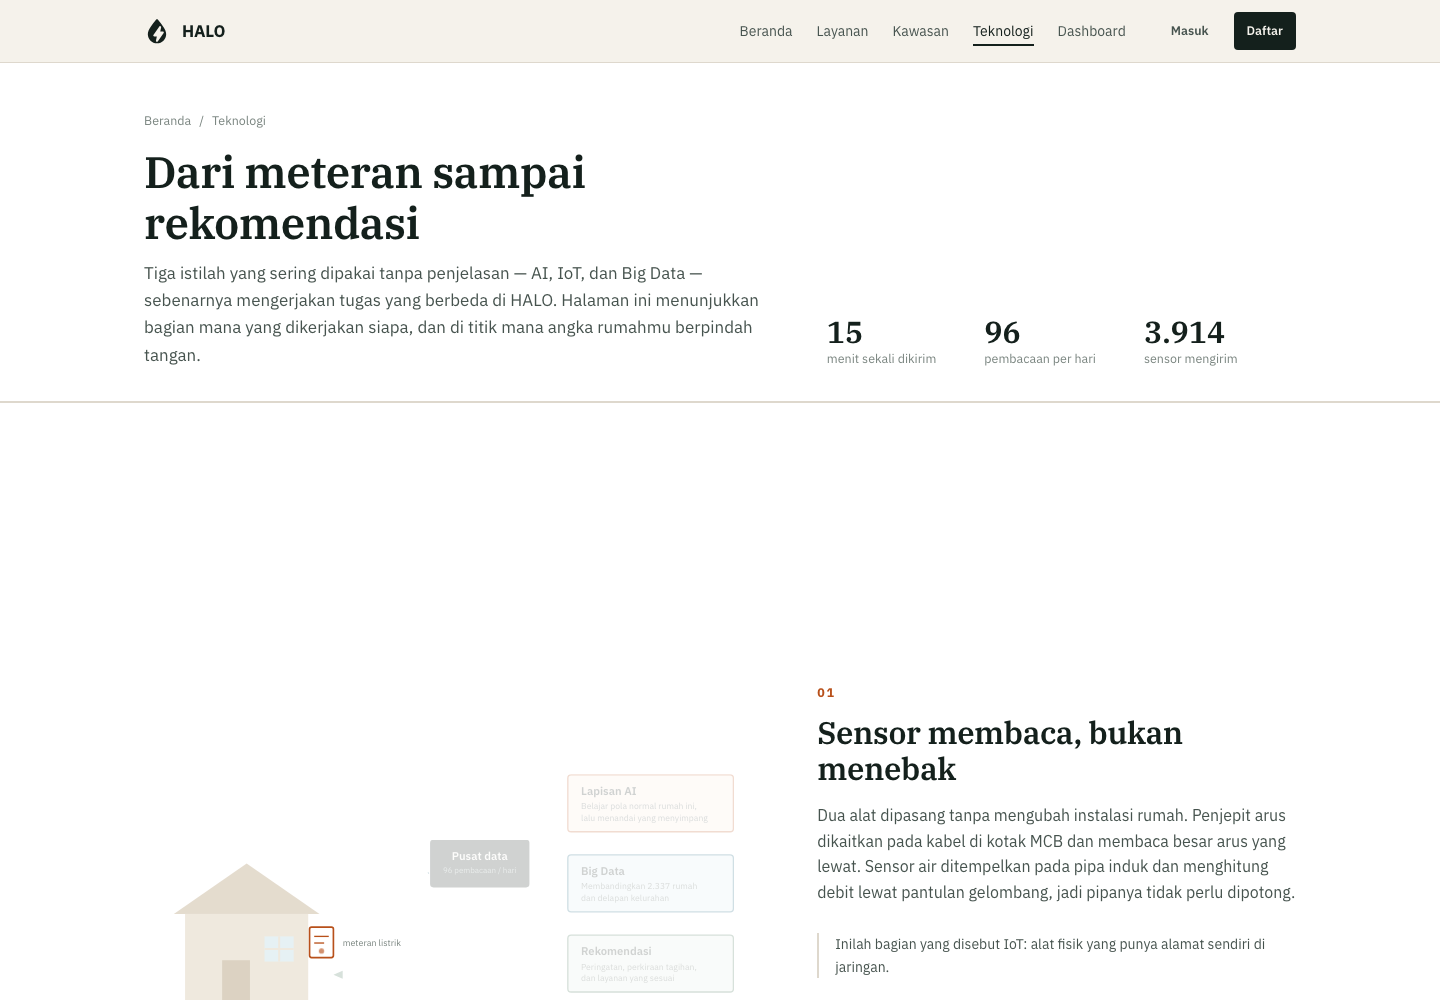
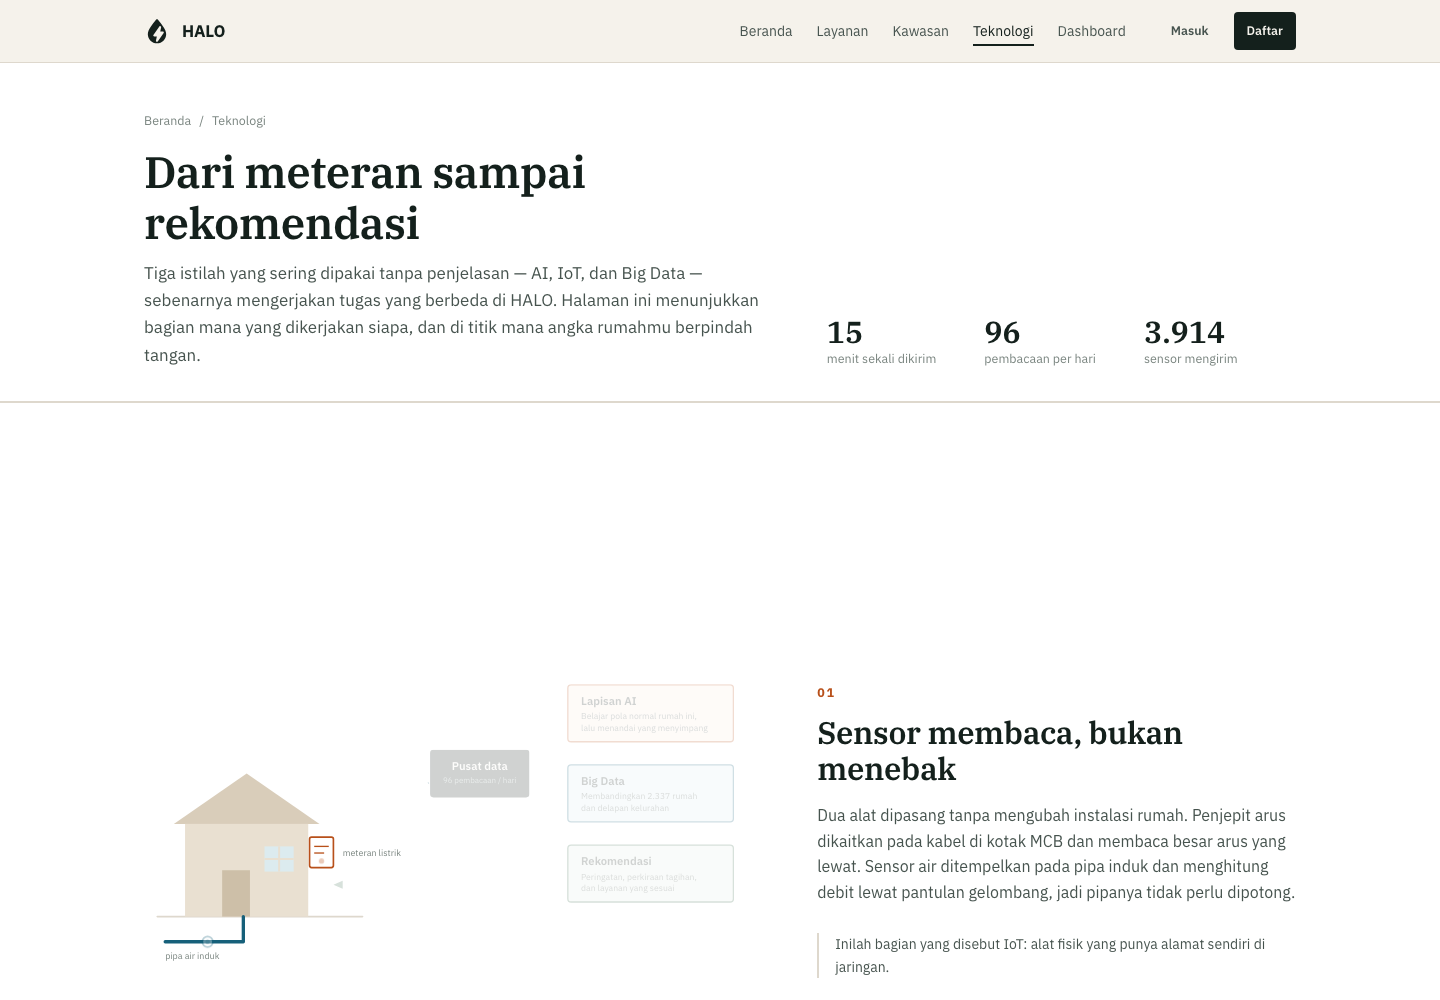
Perbaiki tampilan tablet, diagram teknologi, dan bahasa tombol galeri
- Cegah gulir mendatar: animasi muncul dari samping diganti dari bawah
  di layar sempit, dan petak grid diberi min-width nol supaya tabel lebar
  tidak lagi memaksa kolom melebar
- Bilah navigasi pindah ke tombol menu mulai 900px, sebelumnya 760px
  sehingga masih sesak di tablet
- Diagram halaman Teknologi kini terpaku sampai langkah terakhir selesai
  dibaca, dan langkah aktif dipilih dari jarak ke tengah layar sehingga
  tidak ada lagi zona mati
- Label tombol galeri Fancybox diterjemahkan ke bahasa Indonesia
- Peta panas bisa digulir mendatar di layar sempit

diff --git a/WD_MAHASISWA_Gianne Angely Puspa Pilatus_ITCC 2026/Gianne Angely Puspa Pilatus_Website/css/style.css b/WD_MAHASISWA_Gianne Angely Puspa Pilatus_ITCC 2026/Gianne Angely Puspa Pilatus_Website/css/style.css
@@ -71,7 +71,14 @@
 /* ---------- Penyetelan ulang ---------- */
 *, *::before, *::after { box-sizing: border-box; }
 * { margin: 0; }
-html { -webkit-text-size-adjust: 100%; scroll-behavior: smooth; }
+html {
+  -webkit-text-size-adjust: 100%;
+  scroll-behavior: smooth;
+  /* Pagar terakhir: gerakan muncul yang menggeser elemen ke samping
+     tidak boleh sampai memunculkan gulir mendatar. Memakai clip, bukan
+     hidden, supaya bilah navigasi yang sticky tetap menempel. */
+  overflow-x: clip;
+}
 body {
   font-family: 'Plex Sans', -apple-system, BlinkMacSystemFont, 'Segoe UI', Roboto, sans-serif;
   font-size: var(--fs-body);
@@ -250,10 +257,10 @@ h3 { font-size: var(--fs-h3); font-family: 'Plex Sans', sans-serif; font-weight:
 .tanpa-js [data-muncul], .diam [data-muncul] { opacity: 1 !important; transform: none !important; clip-path: none !important; }
 
 /* ---------- Responsif ---------- */
+/* Di bawah 900px bilah atas sudah terlalu sesak untuk memuat lima tautan
+   sekaligus keterangan akun, jadi menunya dipindah ke tombol. */
 @media (max-width: 900px) {
   .kaki-kisi { grid-template-columns: 1fr 1fr; gap: var(--s5); }
-}
-@media (max-width: 760px) {
   .bilah-tombol { display: block; }
   .menu {
     position: fixed; inset: 62px 0 auto 0; background: var(--surface);
@@ -264,6 +271,8 @@ h3 { font-size: var(--fs-h3); font-family: 'Plex Sans', sans-serif; font-weight:
   .menu a { padding-block: var(--s3); border-bottom: 1px solid var(--line-2); }
   .menu a::after { display: none; }
   .bilah-aksi { margin-left: auto; }
+}
+@media (max-width: 760px) {
   .bagian { padding-block: var(--s7); }
   .wrap { padding-inline: var(--s4); }
 }
@@ -304,6 +313,12 @@ h3 { font-size: var(--fs-h3); font-family: 'Plex Sans', sans-serif; font-weight:
   transition: opacity .62s var(--ease), transform .62s var(--ease), clip-path .72s var(--ease);
 }
 [data-urut] > * { opacity: 0; transform: translateY(16px); }
+
+/* Di layar sempit isinya sudah selebar penuh, jadi geseran ke samping
+   diganti geseran ke atas — kalau tidak, elemennya keluar tepi layar. */
+@media (max-width: 1040px) {
+  [data-muncul="kiri"], [data-muncul="kanan"] { transform: translateY(20px); }
+}
 [data-urut].tampil > * {
   opacity: 1; transform: none;
   transition: opacity .5s var(--ease), transform .5s var(--ease);

diff --git a/WD_MAHASISWA_Gianne Angely Puspa Pilatus_ITCC 2026/Gianne Angely Puspa Pilatus_Website/css/teknologi.css b/WD_MAHASISWA_Gianne Angely Puspa Pilatus_ITCC 2026/Gianne Angely Puspa Pilatus_Website/css/teknologi.css
@@ -8,13 +8,18 @@
 
 /* ---------- Bercerita sambil digulir ---------- */
 .cerita { background: var(--surface); border-block: 1px solid var(--line); }
-.cerita-kisi { display: grid; grid-template-columns: minmax(0, 1.12fr) minmax(0, .88fr); gap: var(--s8); align-items: start; }
+.cerita-kisi { display: grid; grid-template-columns: minmax(0, 1.12fr) minmax(0, .88fr); gap: var(--s8); }
 
-/* Panggung dipaku setinggi layar dan isinya ditengahkan, supaya
-   diagram tetap sejajar mata selagi daftar langkah bergulir melewatinya */
-.cerita-panggung {
+/* Kolom kiri dibiarkan setinggi kolom kanan supaya elemen yang
+   menempel punya ruang jelajah sepanjang seluruh daftar langkah.
+   Yang dipaku adalah pembungkus di dalamnya, bukan kolomnya. */
+.cerita-panggung { height: 100%; }
+/* Tingginya sedikit di bawah satu layar, dan daftar langkah diberi
+   ruang sisa di bawahnya. Keduanya membuat diagram tetap terpaku
+   sampai langkah terakhir benar-benar selesai dibaca. */
+.cerita-lekat {
   position: sticky; top: 0;
-  height: 100vh; display: grid; align-content: center;
+  height: 82vh; display: grid; align-content: center;
   padding-block: var(--s6);
 }
 .diagram { width: 100%; height: auto; }
@@ -39,7 +44,7 @@
 .nadi { animation: denyutSensor 2.2s ease-in-out infinite; }
 @keyframes denyutSensor { 0%, 100% { opacity: 1; } 50% { opacity: .3; } }
 
-.cerita-langkah { padding-block: var(--s8); }
+.cerita-langkah { padding-block: var(--s8) 40vh; }
 .cerita-langkah li {
   min-height: 74vh; display: flex; flex-direction: column; justify-content: center;
   opacity: .3; transition: opacity .5s var(--ease);
@@ -63,7 +68,8 @@
 
 @media (max-width: 1000px) {
   .cerita-kisi { grid-template-columns: 1fr; gap: var(--s4); }
-  .cerita-panggung { position: sticky; top: 62px; height: auto; background: var(--surface); padding-block: var(--s4); z-index: 2; border-bottom: 1px solid var(--line-2); }
+  .cerita-panggung { height: auto; }
+  .cerita-lekat { position: sticky; top: 62px; height: auto; background: var(--surface); padding-block: var(--s4); z-index: 2; border-bottom: 1px solid var(--line-2); }
   .cerita-langkah li { min-height: 0; padding-block: var(--s6); opacity: 1; }
   .cerita-langkah { padding-block: var(--s6); }
   .aman-kisi { grid-template-columns: repeat(2, 1fr); }

diff --git a/WD_MAHASISWA_Gianne Angely Puspa Pilatus_ITCC 2026/Gianne Angely Puspa Pilatus_Website/js/teknologi.js b/WD_MAHASISWA_Gianne Angely Puspa Pilatus_ITCC 2026/Gianne Angely Puspa Pilatus_Website/js/teknologi.js
@@ -13,18 +13,37 @@ document.addEventListener('DOMContentLoaded', function () {
     langkah.forEach(li => li.classList.toggle('aktif', li.dataset.sorot === kunci));
   }
 
-  if (diam || !('IntersectionObserver' in window)) {
+  if (diam) {
     diagram.querySelectorAll('g').forEach(g => g.classList.add('nyala'));
     langkah.forEach(li => li.classList.add('aktif'));
   } else {
-    sorot(langkah[0].dataset.sorot);
-    const pengamat = new IntersectionObserver(entri => {
-      /* Ambil langkah yang paling dekat ke tengah layar */
-      const terlihat = entri.filter(e => e.isIntersecting)
-        .sort((a, b) => b.intersectionRatio - a.intersectionRatio)[0];
-      if (terlihat) sorot(terlihat.target.dataset.sorot);
-    }, { threshold: [0.35, 0.6], rootMargin: '-20% 0px -20% 0px' });
-    langkah.forEach(li => pengamat.observe(li));
+    /* Langkah yang aktif dipilih dari jaraknya ke tengah layar.
+       Cara ini tidak punya zona mati seperti pengamat berambang:
+       berapa pun tinggi tiap langkah, selalu ada satu yang terpilih. */
+    let kunciTerakhir = null;
+    let menunggu = false;
+
+    function pilihTerdekat() {
+      menunggu = false;
+      const tengah = window.innerHeight / 2;
+      let terdekat = langkah[0], jarakTerdekat = Infinity;
+      langkah.forEach(li => {
+        const k = li.getBoundingClientRect();
+        const jarak = Math.abs((k.top + k.bottom) / 2 - tengah);
+        if (jarak < jarakTerdekat) { jarakTerdekat = jarak; terdekat = li; }
+      });
+      const kunci = terdekat.dataset.sorot;
+      if (kunci !== kunciTerakhir) { kunciTerakhir = kunci; sorot(kunci); }
+    }
+
+    const saatGulir = () => {
+      if (menunggu) return;
+      menunggu = true;
+      requestAnimationFrame(pilihTerdekat);
+    };
+    window.addEventListener('scroll', saatGulir, { passive: true });
+    window.addEventListener('resize', saatGulir);
+    pilihTerdekat();
   }
 
   /* ---------- Ketepatan perkiraan ----------

diff --git a/WD_MAHASISWA_Gianne Angely Puspa Pilatus_ITCC 2026/Gianne Angely Puspa Pilatus_Website/js/detail.js b/WD_MAHASISWA_Gianne Angely Puspa Pilatus_ITCC 2026/Gianne Angely Puspa Pilatus_Website/js/detail.js
@@ -147,8 +147,42 @@ document.addEventListener('DOMContentLoaded', function () {
   [gUnit, gTarif, gPakai].forEach(g => g.addEventListener('input', () => hitung(true)));
   hitung(false);
 
-  /* ---------- Galeri ---------- */
-  if (window.Fancybox) Fancybox.bind('[data-fancybox="galeri"]', { Thumbs: false });
+  /* ---------- Galeri ----------
+     Label bawaan Fancybox berbahasa Inggris, jadi diganti supaya
+     seragam dengan seluruh isi situs. */
+  if (window.Fancybox) {
+    Fancybox.bind('[data-fancybox="galeri"]', {
+      Thumbs: false,
+      l10n: {
+        CLOSE: 'Tutup',
+        NEXT: 'Berikutnya',
+        PREV: 'Sebelumnya',
+        MODAL: 'Tekan tombol Esc untuk menutup',
+        ERROR: 'Ada yang tidak beres, coba sebentar lagi',
+        IMAGE_ERROR: 'Gambar tidak ditemukan',
+        /* Tombol perbesar memakai tiga nama kunci berbeda di dalam
+           Fancybox, jadi ketiganya diisi supaya pasti tergantikan. */
+        TOGGLE_ZOOM: 'Perbesar atau perkecil',
+        TOGGLEZOOM: 'Perbesar atau perkecil',
+        ITERATEZOOM: 'Perbesar atau perkecil',
+        TOGGLE_SLIDESHOW: 'Putar otomatis',
+        TOGGLE_FULLSCREEN: 'Layar penuh',
+        TOGGLE_THUMBS: 'Tampilkan gambar kecil',
+        DOWNLOAD: 'Unduh',
+        PANUP: 'Geser ke atas',
+        PANDOWN: 'Geser ke bawah',
+        PANLEFT: 'Geser ke kiri',
+        PANRIGHT: 'Geser ke kanan',
+        ZOOMIN: 'Perbesar',
+        ZOOMOUT: 'Perkecil',
+        ROTATECCW: 'Putar berlawanan jarum jam',
+        ROTATECW: 'Putar searah jarum jam',
+        FLIPX: 'Balik mendatar',
+        FLIPY: 'Balik tegak',
+        RESET: 'Kembalikan seperti semula'
+      }
+    });
+  }
 
   /* ---------- Tombol tindakan ---------- */
   document.getElementById('tombolAjukan').addEventListener('click', () => {

diff --git a/WD_MAHASISWA_Gianne Angely Puspa Pilatus_ITCC 2026/Gianne Angely Puspa Pilatus_Website/css/halaman.css b/WD_MAHASISWA_Gianne Angely Puspa Pilatus_ITCC 2026/Gianne Angely Puspa Pilatus_Website/css/halaman.css
@@ -97,10 +97,15 @@
 /* ---------- Susunan dua kolom ---------- */
 .dua-kolom { display: grid; grid-template-columns: minmax(0, 1fr) minmax(0, 1fr); gap: var(--s5); }
 .kolom-berat { display: grid; grid-template-columns: minmax(0, 1.55fr) minmax(0, 1fr); gap: var(--s5); align-items: start; }
-.tumpuk { display: grid; gap: var(--s5); }
+.tumpuk { display: grid; grid-template-columns: minmax(0, 1fr); gap: var(--s5); }
+
+/* Petak grid secara bawaan menolak menyusut di bawah lebar isi terkecilnya.
+   Tanpa min-width: 0, satu tabel lebar bisa memaksa seluruh kolom melebar
+   dan membuat halaman bisa digulir ke samping. */
+.tumpuk > *, .dua-kolom > *, .kolom-berat > *, .panel-kisi > * { min-width: 0; }
 
 @media (max-width: 1000px) {
-  .kepala-kisi, .dua-kolom, .kolom-berat { grid-template-columns: 1fr; gap: var(--s5); }
+  .kepala-kisi, .dua-kolom, .kolom-berat { grid-template-columns: minmax(0, 1fr); gap: var(--s5); }
   .panel-kisi { grid-template-columns: repeat(2, 1fr); }
 }
 @media (max-width: 520px) {

diff --git a/WD_MAHASISWA_Gianne Angely Puspa Pilatus_ITCC 2026/Gianne Angely Puspa Pilatus_Website/pages/teknologi.html b/WD_MAHASISWA_Gianne Angely Puspa Pilatus_ITCC 2026/Gianne Angely Puspa Pilatus_Website/pages/teknologi.html
@@ -65,6 +65,7 @@
     <div class="wrap cerita-kisi">
 
       <div class="cerita-panggung">
+        <div class="cerita-lekat">
         <svg class="diagram" id="diagram" viewBox="0 0 920 470" role="img"
              aria-label="Diagram alur data HALO dari sensor di rumah menuju pusat data, lapisan AI, perbandingan Big Data, lalu kembali sebagai rekomendasi">
           <title>Alur data HALO</title>
@@ -134,6 +135,7 @@
             <path d="M300 338 L286 344 L300 350 Z" fill="#38684a"/>
           </g>
         </svg>
+        </div>
       </div>
 
       <ol class="cerita-langkah" id="ceritaLangkah">

diff --git a/WD_MAHASISWA_Gianne Angely Puspa Pilatus_ITCC 2026/Gianne Angely Puspa Pilatus_Website/css/kawasan.css b/WD_MAHASISWA_Gianne Angely Puspa Pilatus_ITCC 2026/Gianne Angely Puspa Pilatus_Website/css/kawasan.css
@@ -45,7 +45,7 @@
 .prog-kaki { font-size: var(--fs-xs); color: var(--ink-3); margin-top: 6px; }
 
 /* ---------- Antrean verifikasi ---------- */
-.antre-daftar { display: grid; gap: var(--s3); }
+.antre-daftar { display: grid; gap: var(--s3); overflow-x: clip; }
 .antre {
   display: flex; justify-content: space-between; align-items: flex-start; gap: var(--s5);
   padding: var(--s4) var(--s5); border: 1px solid var(--line); border-radius: var(--r-sm); background: var(--surface);
